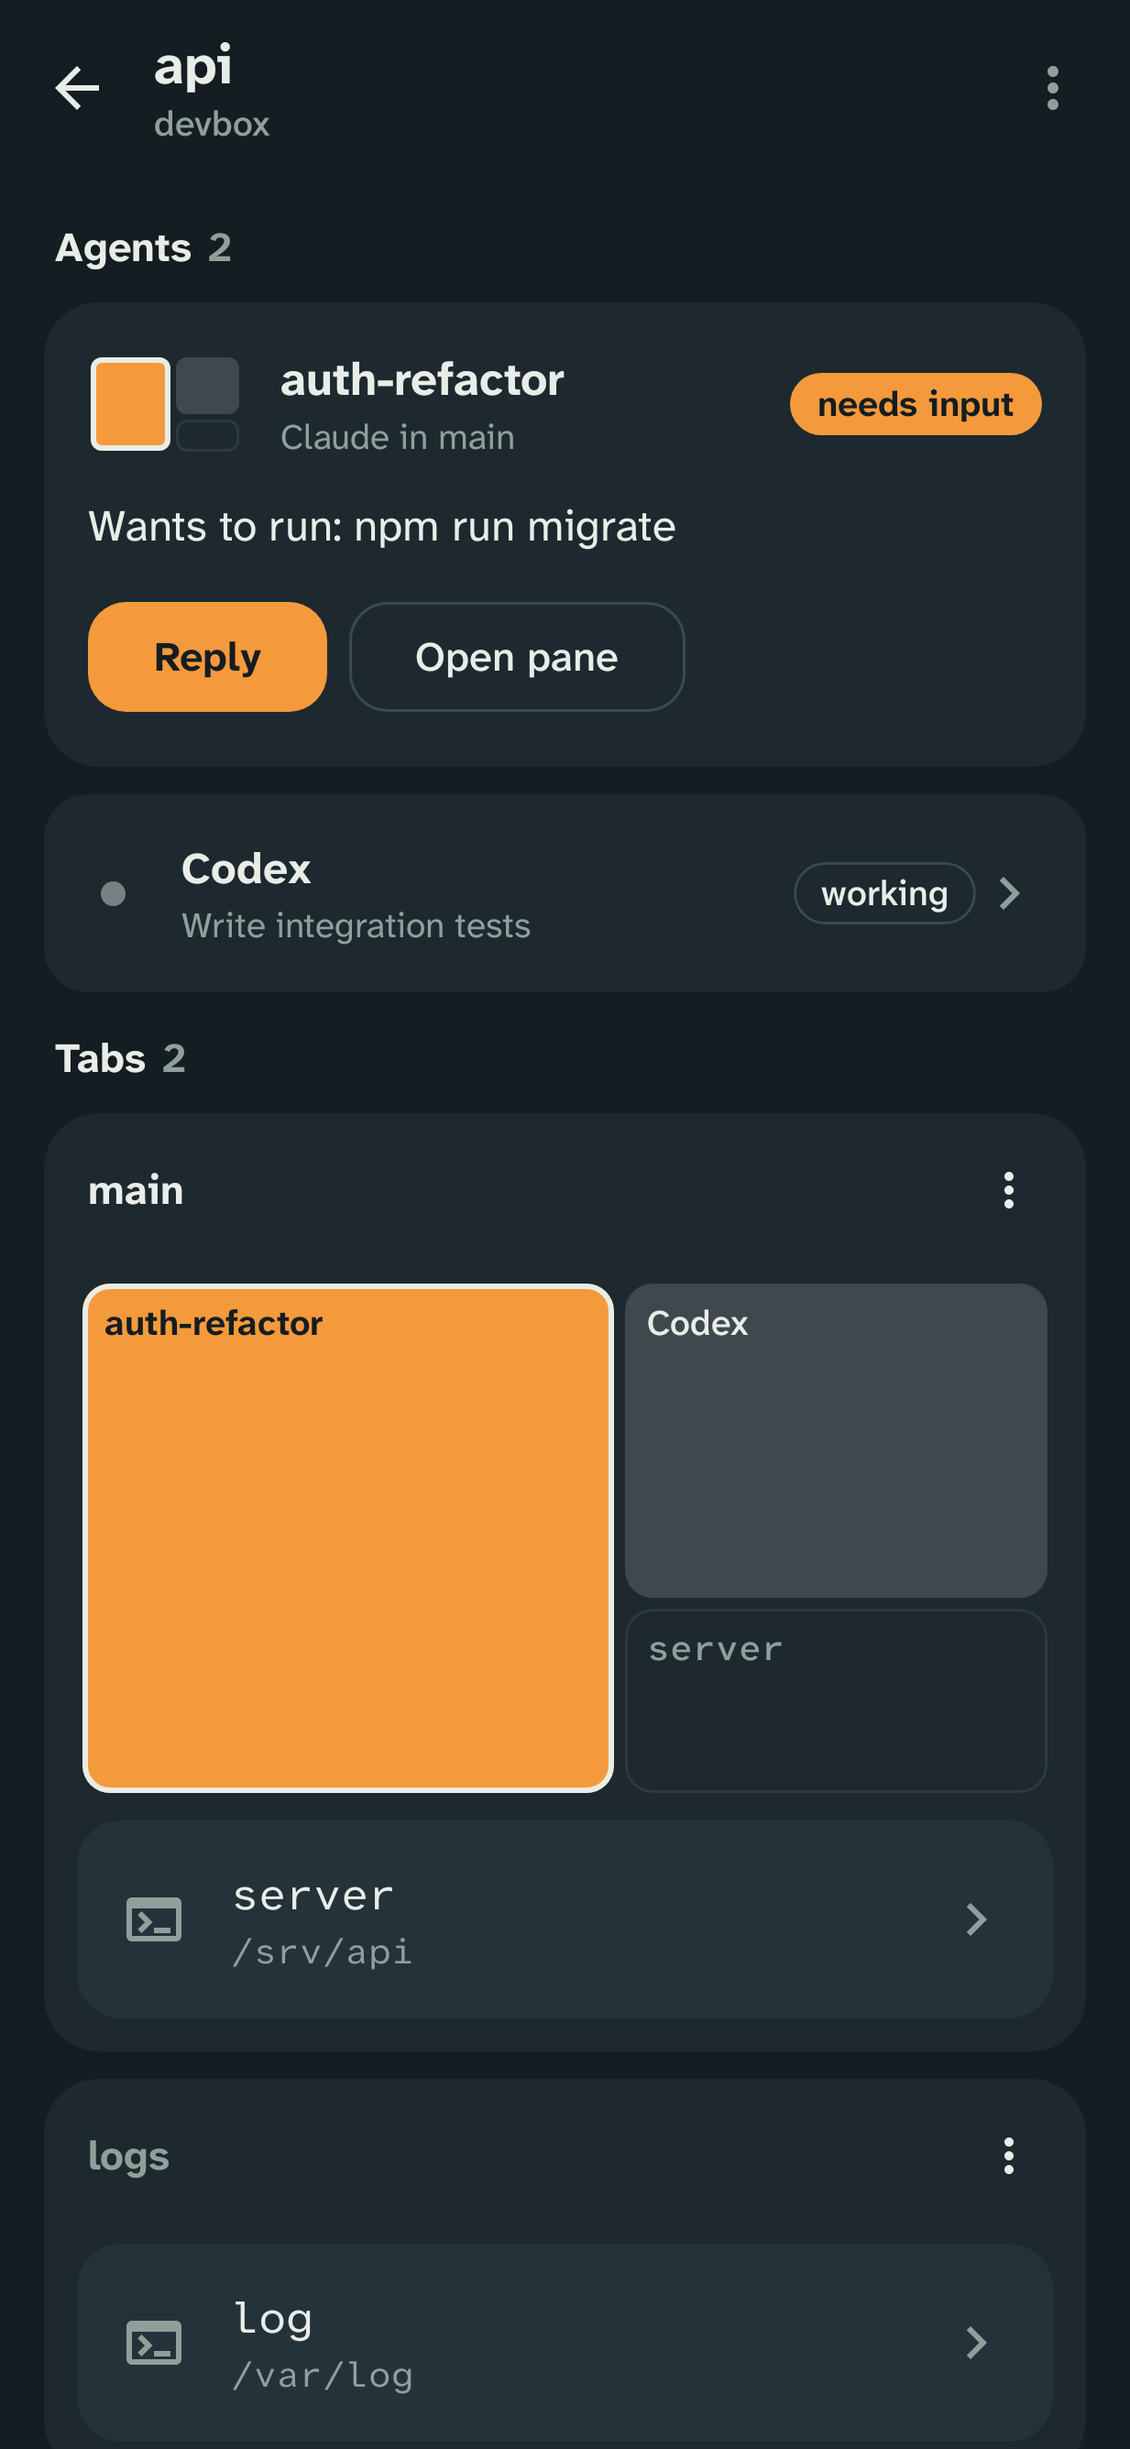
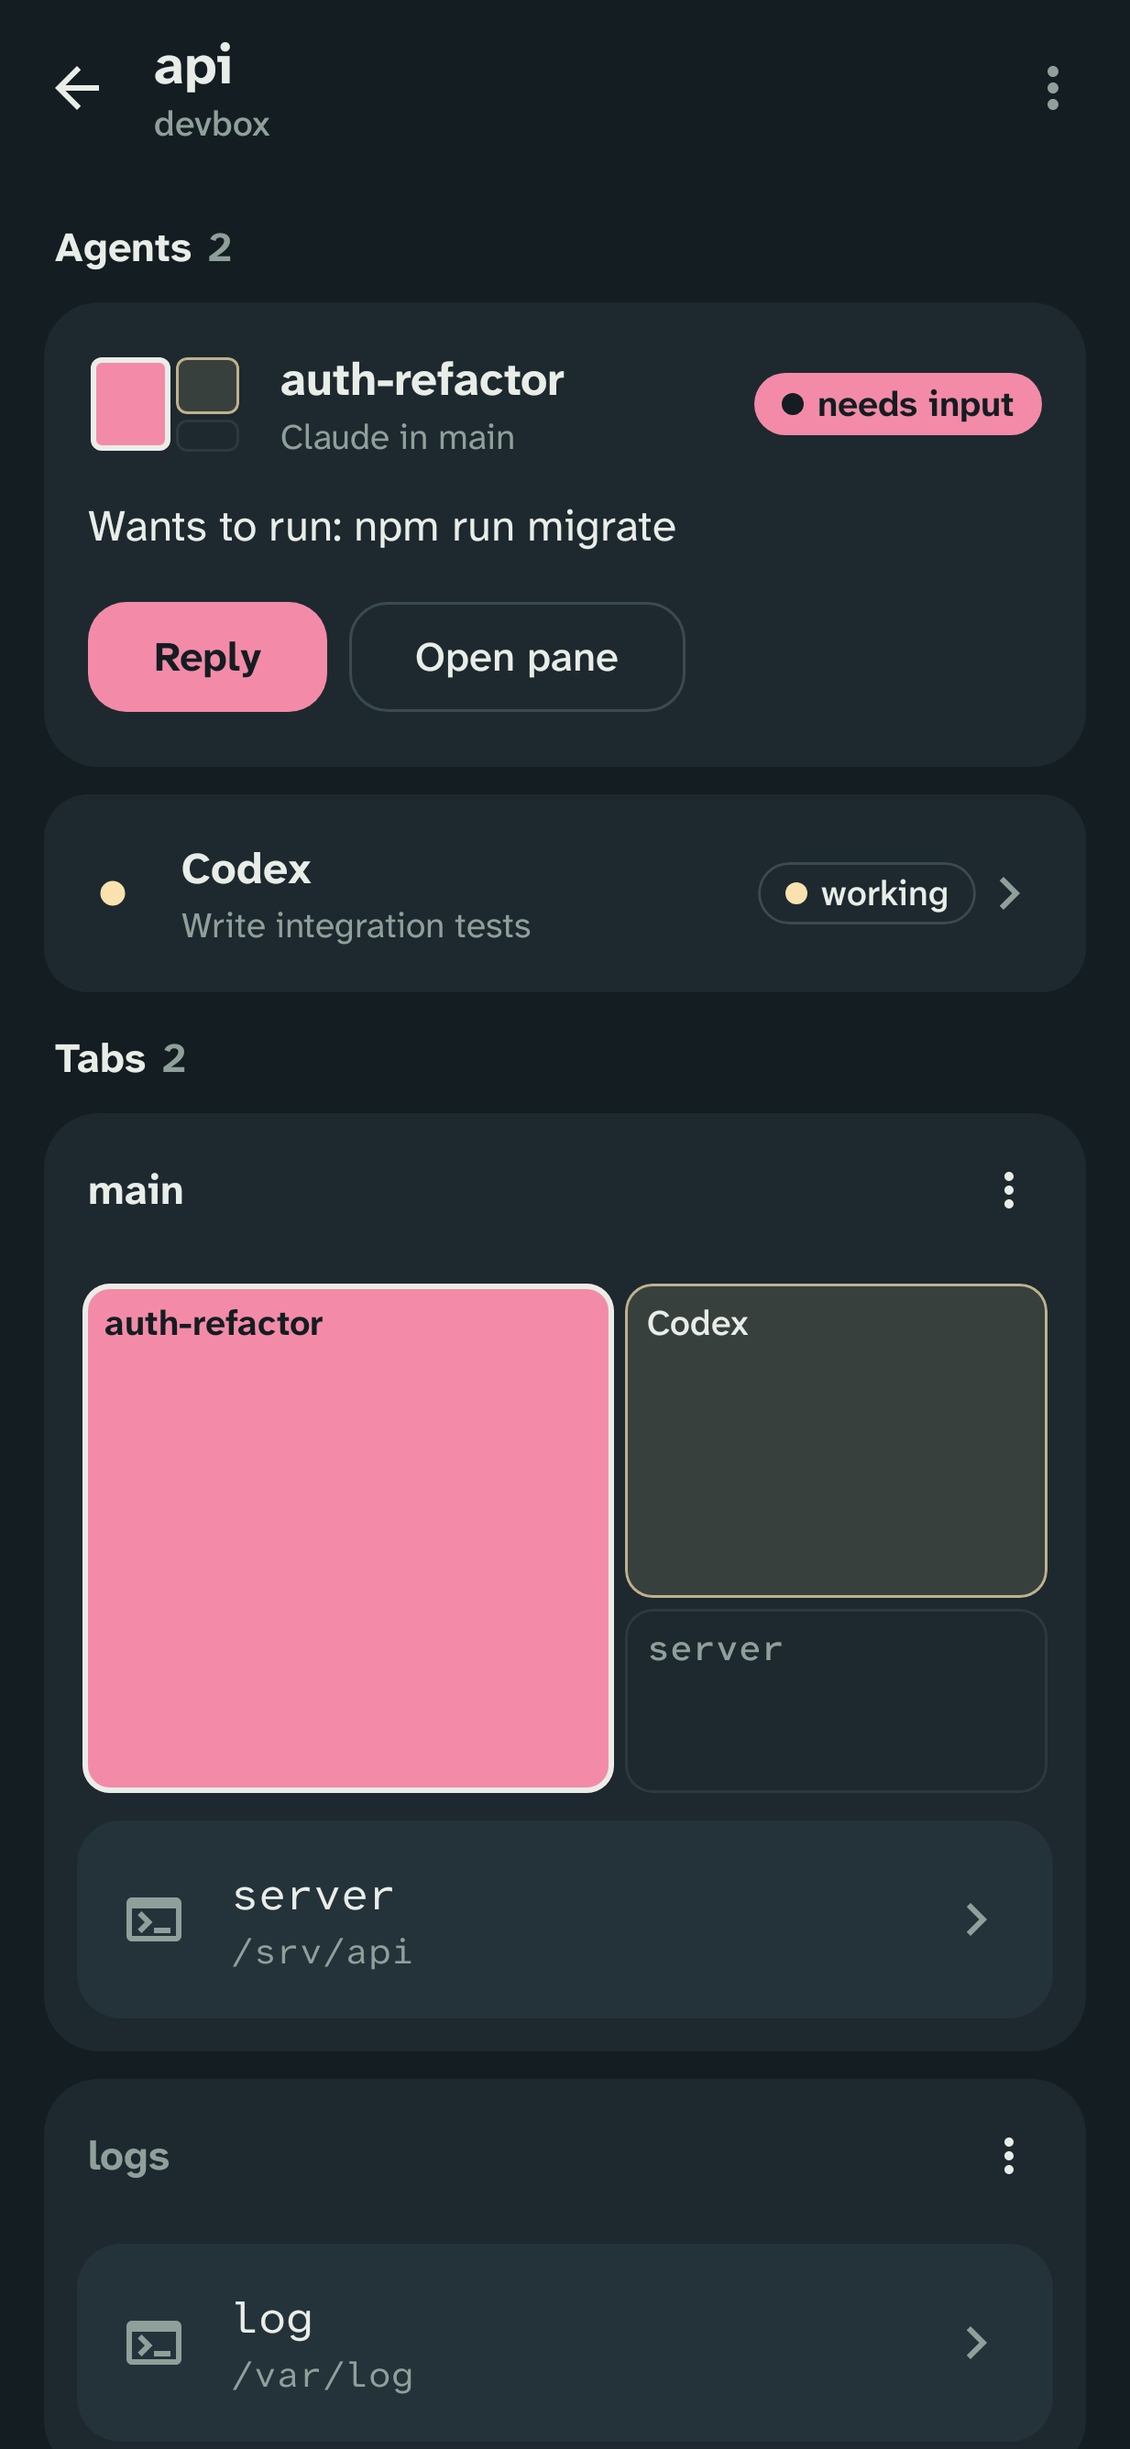
Use herdr's state colors and status marks
Agent states take herdr's colors from its default Catppuccin themes
(blocked red, working yellow, done teal, idle green, unknown overlay0)
and its static marks: dots by default, or distinct symbols (× ◐ ✓ ○ ·)
behind a setting mirroring herdr's ui.status_indicators. Space cards
show their state mark like herdr's space rows.

diff --git a/app/src/main/java/dev/herdroid/ui/components/Status.kt b/app/src/main/java/dev/herdroid/ui/components/Status.kt
@@ -1,28 +1,27 @@
 package dev.herdroid.ui.components
 
-import androidx.compose.animation.core.LinearEasing
-import androidx.compose.animation.core.RepeatMode
-import androidx.compose.animation.core.animateFloat
-import androidx.compose.animation.core.infiniteRepeatable
-import androidx.compose.animation.core.rememberInfiniteTransition
-import androidx.compose.animation.core.tween
+import androidx.compose.foundation.Canvas
 import androidx.compose.foundation.background
 import androidx.compose.foundation.border
-import androidx.compose.foundation.layout.Box
+import androidx.compose.foundation.layout.Arrangement
 import androidx.compose.foundation.layout.Row
 import androidx.compose.foundation.layout.padding
 import androidx.compose.foundation.layout.size
-import androidx.compose.foundation.shape.CircleShape
 import androidx.compose.foundation.shape.RoundedCornerShape
 import androidx.compose.material3.MaterialTheme
 import androidx.compose.material3.Text
 import androidx.compose.runtime.Composable
-import androidx.compose.runtime.getValue
 import androidx.compose.ui.Alignment
 import androidx.compose.ui.Modifier
-import androidx.compose.ui.draw.alpha
 import androidx.compose.ui.draw.clip
-import androidx.compose.ui.draw.scale
+import androidx.compose.ui.geometry.Offset
+import androidx.compose.ui.geometry.Size
+import androidx.compose.ui.graphics.Color
+import androidx.compose.ui.graphics.Path
+import androidx.compose.ui.graphics.StrokeCap
+import androidx.compose.ui.graphics.StrokeJoin
+import androidx.compose.ui.graphics.drawscope.DrawScope
+import androidx.compose.ui.graphics.drawscope.Stroke
 import androidx.compose.ui.semantics.contentDescription
 import androidx.compose.ui.semantics.semantics
 import androidx.compose.ui.text.font.FontWeight
@@ -30,47 +29,57 @@ import androidx.compose.ui.unit.Dp
 import androidx.compose.ui.unit.dp
 import dev.herdroid.herdr.AgentStatus
 import dev.herdroid.ui.theme.LocalStatusColors
+import dev.herdroid.ui.theme.LocalStatusIndicators
+import dev.herdroid.ui.theme.StatusIndicators
+import kotlin.math.max
 
-/** A status dot. Working agents breathe, blocked agents pulse a halo to draw the eye. */
+/**
+ * herdr's state mark (`status_icon` in herdr's client), drawn rather than typeset so it stays
+ * crisp at any size. Static, like herdr's: dots are ● for working/blocked/done, ○ idle, · unknown;
+ * symbols are × blocked, ◐ working, ✓ done, ○ idle, · unknown.
+ */
 @Composable
 fun StatusDot(status: AgentStatus, modifier: Modifier = Modifier, size: Dp = 10.dp) {
     val color = LocalStatusColors.current.of(status)
-    val transition = rememberInfiniteTransition(label = "status")
-    val pulse by transition.animateFloat(
-        initialValue = 0f,
-        targetValue = 1f,
-        animationSpec = infiniteRepeatable(tween(1400, easing = LinearEasing), RepeatMode.Restart),
-        label = "pulse",
-    )
-    val breathe by transition.animateFloat(
-        initialValue = 0.45f,
-        targetValue = 1f,
-        animationSpec = infiniteRepeatable(tween(900), RepeatMode.Reverse),
-        label = "breathe",
-    )
-    Box(
+    val style = LocalStatusIndicators.current
+    Canvas(
         modifier
             .size(size * 2)
             .semantics { contentDescription = "Agent ${status.name.lowercase()}" },
-        contentAlignment = Alignment.Center,
-    ) {
-        if (status == AgentStatus.BLOCKED) {
-            Box(
-                Modifier
-                    .size(size)
-                    .scale(1f + pulse * 0.9f)
-                    .alpha(1f - pulse)
-                    .clip(CircleShape)
-                    .background(color)
+    ) { drawStatusMark(status, style, color, size.toPx()) }
+}
+
+/** Draws the mark for [status] centered in this scope, [diameter] across. */
+fun DrawScope.drawStatusMark(status: AgentStatus, style: StatusIndicators, color: Color, diameter: Float) {
+    val r = diameter / 2
+    val stroke = max(diameter * 0.18f, 1.5f)
+    val ring = { drawCircle(color, r - stroke / 2, style = Stroke(stroke)) }
+    when {
+        status == AgentStatus.UNKNOWN -> drawCircle(color, r * 0.38f)
+        status == AgentStatus.IDLE -> ring()
+        style == StatusIndicators.DOTS -> drawCircle(color, r)
+        status == AgentStatus.WORKING -> {
+            ring()
+            drawArc(
+                color, startAngle = 90f, sweepAngle = 180f, useCenter = true,
+                topLeft = Offset(center.x - r, center.y - r), size = Size(diameter, diameter),
             )
         }
-        Box(
-            Modifier
-                .size(size)
-                .alpha(if (status == AgentStatus.WORKING) breathe else 1f)
-                .clip(CircleShape)
-                .background(color)
-        )
+        status == AgentStatus.BLOCKED -> {
+            val d = r * 0.72f
+            val line = stroke * 1.2f
+            drawLine(color, center + Offset(-d, -d), center + Offset(d, d), line, StrokeCap.Round)
+            drawLine(color, center + Offset(-d, d), center + Offset(d, -d), line, StrokeCap.Round)
+        }
+        else -> { // DONE
+            val origin = center - Offset(r, r)
+            val check = Path().apply {
+                moveTo(origin.x + diameter * 0.12f, origin.y + diameter * 0.55f)
+                lineTo(origin.x + diameter * 0.40f, origin.y + diameter * 0.82f)
+                lineTo(origin.x + diameter * 0.90f, origin.y + diameter * 0.22f)
+            }
+            drawPath(check, color, style = Stroke(stroke * 1.2f, cap = StrokeCap.Round, join = StrokeJoin.Round))
+        }
     }
 }
 
@@ -92,7 +101,11 @@ fun StatusPill(status: AgentStatus, label: String, modifier: Modifier = Modifier
             )
             .padding(horizontal = 10.dp, vertical = 3.dp),
         verticalAlignment = Alignment.CenterVertically,
+        horizontalArrangement = Arrangement.spacedBy(5.dp),
     ) {
+        val markColor = if (solid) colors.onSolid else colors.of(status)
+        val style = LocalStatusIndicators.current
+        Canvas(Modifier.size(8.dp)) { drawStatusMark(status, style, markColor, size.minDimension) }
         Text(
             label,
             style = MaterialTheme.typography.labelMedium,

diff --git a/app/src/main/java/dev/herdroid/ui/SettingsScreen.kt b/app/src/main/java/dev/herdroid/ui/SettingsScreen.kt
@@ -3,6 +3,10 @@ package dev.herdroid.ui
 import android.content.Intent
 import android.provider.Settings
 import androidx.compose.foundation.clickable
+import androidx.compose.foundation.horizontalScroll
+import androidx.compose.foundation.layout.Row
+import androidx.compose.foundation.layout.Spacer
+import androidx.compose.foundation.layout.width
 import androidx.compose.foundation.layout.Column
 import androidx.compose.foundation.layout.padding
 import androidx.compose.foundation.rememberScrollState
@@ -20,14 +24,20 @@ import androidx.compose.material3.Switch
 import androidx.compose.material3.Text
 import androidx.compose.material3.TopAppBar
 import androidx.compose.runtime.Composable
+import androidx.compose.runtime.CompositionLocalProvider
 import androidx.compose.runtime.collectAsState
 import androidx.compose.runtime.getValue
+import androidx.compose.ui.Alignment
 import androidx.compose.ui.Modifier
 import androidx.compose.ui.platform.LocalContext
 import androidx.compose.ui.unit.dp
 import dev.herdroid.BuildConfig
 import dev.herdroid.app
+import dev.herdroid.herdr.AgentStatus
 import dev.herdroid.terminal.TerminalView
+import dev.herdroid.ui.components.StatusDot
+import dev.herdroid.ui.theme.LocalStatusIndicators
+import dev.herdroid.ui.theme.StatusIndicators
 import dev.herdroid.ui.theme.Mono
 
 @OptIn(ExperimentalMaterial3Api::class)
@@ -38,6 +48,7 @@ fun SettingsScreen(onBack: () -> Unit) {
     val fontSize by prefs.fontSize.collectAsState()
     val keepScreenOn by prefs.keepScreenOn.collectAsState()
     val haptics by prefs.haptics.collectAsState()
+    val statusSymbols by prefs.statusSymbols.collectAsState()
 
     Scaffold(
         topBar = {
@@ -70,6 +81,26 @@ fun SettingsScreen(onBack: () -> Unit) {
                 headlineContent = { Text("Keep screen on in terminal") },
                 supportingContent = { Text("Handy while watching an agent work") },
                 trailingContent = { Switch(keepScreenOn, onCheckedChange = prefs::setKeepScreenOn) },
+            )
+            ListItem(
+                headlineContent = { Text("Distinct status symbols") },
+                supportingContent = {
+                    Column {
+                        Text("Like herdr's status_indicators = \"symbols\": tell states apart by shape, not only color")
+                        CompositionLocalProvider(
+                            LocalStatusIndicators provides if (statusSymbols) StatusIndicators.SYMBOLS else StatusIndicators.DOTS
+                        ) {
+                            Row(Modifier.horizontalScroll(rememberScrollState()), verticalAlignment = Alignment.CenterVertically) {
+                                AgentStatus.entries.forEach { status ->
+                                    StatusDot(status, size = 9.dp)
+                                    Text(status.name.lowercase(), style = MaterialTheme.typography.labelSmall)
+                                    Spacer(Modifier.width(6.dp))
+                                }
+                            }
+                        }
+                    }
+                },
+                trailingContent = { Switch(statusSymbols, onCheckedChange = prefs::setStatusSymbols) },
             )
             ListItem(
                 headlineContent = { Text("Key haptics") },

diff --git a/app/src/main/java/dev/herdroid/ui/theme/Theme.kt b/app/src/main/java/dev/herdroid/ui/theme/Theme.kt
@@ -31,8 +31,8 @@ private val CorralHigh = Color(0xFF24323A)
 private val Fence = Color(0xFF2C3A40) // lines
 private val Wool = Color(0xFFE9EDE8) // text
 private val Mist = Color(0xFF8FA09A) // secondary text
-private val Lantern = Color(0xFFF59A3C) // blocked
-private val Sky = Color(0xFF67B0F0) // done
+private val Lantern = Color(0xFFF59A3C) // warm accent
+private val Sky = Color(0xFF67B0F0) // cool accent
 
 // Light
 private val Meadow = Color(0xFFE9EEEA)
@@ -129,25 +129,34 @@ data class StatusColors(
     fun isSolid(status: AgentStatus) = status == AgentStatus.BLOCKED || status == AgentStatus.DONE
 }
 
-private val DarkStatus = StatusColors(
-    blocked = Lantern,
-    done = Sky,
-    working = Wool,
-    idle = Mist,
-    unknown = Fence,
+/*
+ * herdr's own state colors (`status_color` in herdr's client): working → yellow, blocked → red,
+ * done → teal, idle → green, unknown → overlay0, from its default Catppuccin themes.
+ */
+private val DarkStatus = StatusColors( // Catppuccin Mocha
+    blocked = Color(0xFFF38BA8),
+    done = Color(0xFF94E2D5),
+    working = Color(0xFFF9E2AF),
+    idle = Color(0xFFA6E3A1),
+    unknown = Color(0xFF6C7086),
     onSolid = PastureNight,
 )
 
-private val LightStatus = StatusColors(
-    blocked = LanternDay,
-    done = SkyDay,
-    working = Ink,
-    idle = Moss,
-    unknown = Hedge,
+private val LightStatus = StatusColors( // Catppuccin Latte
+    blocked = Color(0xFFD20F39),
+    done = Color(0xFF179299),
+    working = Color(0xFFDF8E1D),
+    idle = Color(0xFF40A02B),
+    unknown = Color(0xFF9CA0B0),
     onSolid = Color.White,
 )
 
 val LocalStatusColors = staticCompositionLocalOf { DarkStatus }
+
+/** herdr's `ui.status_indicators`: color dots (● ○ ·) or distinct symbols (× ◐ ✓ ○ ·). */
+enum class StatusIndicators { DOTS, SYMBOLS }
+
+val LocalStatusIndicators = staticCompositionLocalOf { StatusIndicators.DOTS }
 
 @OptIn(ExperimentalTextApi::class)
 private fun variable(res: Int, weight: Int) =

diff --git a/app/src/main/java/dev/herdroid/ui/session/SessionScreen.kt b/app/src/main/java/dev/herdroid/ui/session/SessionScreen.kt
@@ -11,6 +11,7 @@ import androidx.compose.foundation.layout.Spacer
 import androidx.compose.foundation.layout.fillMaxSize
 import androidx.compose.foundation.layout.fillMaxWidth
 import androidx.compose.foundation.layout.height
+import androidx.compose.foundation.layout.offset
 import androidx.compose.foundation.layout.padding
 import androidx.compose.foundation.lazy.LazyColumn
 import androidx.compose.foundation.lazy.items
@@ -65,6 +66,7 @@ import dev.herdroid.herdr.WorkspaceInfo
 import dev.herdroid.ui.components.ConnectionBanner
 import dev.herdroid.ui.components.ConnectionPrompts
 import dev.herdroid.ui.components.EmptyState
+import dev.herdroid.ui.components.StatusDot
 import dev.herdroid.ui.theme.LocalStatusColors
 import kotlinx.coroutines.launch
 
@@ -279,12 +281,16 @@ private fun SpaceCard(
             ) {
                 snapshot.activeTabId(workspace)?.let { TabMiniature(snapshot, it, MiniatureRow) }
                 Column(Modifier.weight(1f)) {
-                    Text(
-                        workspace.label.ifBlank { "Space ${workspace.number}" },
-                        style = MaterialTheme.typography.titleMedium,
-                        maxLines = 1,
-                        overflow = TextOverflow.Ellipsis,
-                    )
+                    // herdr's space row: its state mark, then the name.
+                    Row(verticalAlignment = Alignment.CenterVertically) {
+                        StatusDot(workspace.agentStatus, Modifier.offset(x = (-4).dp), size = 8.dp)
+                        Text(
+                            workspace.label.ifBlank { "Space ${workspace.number}" },
+                            style = MaterialTheme.typography.titleMedium,
+                            maxLines = 1,
+                            overflow = TextOverflow.Ellipsis,
+                        )
+                    }
                     Text(
                         line,
                         style = MaterialTheme.typography.bodySmall,

diff --git a/app/src/main/java/dev/herdroid/MainActivity.kt b/app/src/main/java/dev/herdroid/MainActivity.kt
@@ -8,6 +8,11 @@ import androidx.activity.enableEdgeToEdge
 import kotlinx.coroutines.flow.MutableStateFlow
 import dev.herdroid.ui.HerdroidRoot
 import dev.herdroid.ui.theme.HerdroidTheme
+import dev.herdroid.ui.theme.LocalStatusIndicators
+import dev.herdroid.ui.theme.StatusIndicators
+import androidx.compose.runtime.CompositionLocalProvider
+import androidx.compose.runtime.collectAsState
+import androidx.compose.runtime.getValue
 
 /** Deep link payload from a notification tap. */
 data class OpenRequest(
@@ -25,8 +30,13 @@ class MainActivity : ComponentActivity() {
         super.onCreate(savedInstanceState)
         handleIntent(intent)
         setContent {
-            HerdroidTheme {
-                HerdroidRoot(openRequests = openRequests)
+            val symbols by app.preferences.statusSymbols.collectAsState()
+            CompositionLocalProvider(
+                LocalStatusIndicators provides if (symbols) StatusIndicators.SYMBOLS else StatusIndicators.DOTS
+            ) {
+                HerdroidTheme {
+                    HerdroidRoot(openRequests = openRequests)
+                }
             }
         }
     }

diff --git a/app/src/main/java/dev/herdroid/data/UiPreferences.kt b/app/src/main/java/dev/herdroid/data/UiPreferences.kt
@@ -16,6 +16,10 @@ class UiPreferences(private val prefs: SharedPreferences) {
     private val _haptics = MutableStateFlow(prefs.getBoolean(KEY_HAPTICS, true))
     val haptics: StateFlow<Boolean> = _haptics.asStateFlow()
 
+    /** Mirrors herdr's `ui.status_indicators = "symbols"`: tell states apart by shape too. */
+    private val _statusSymbols = MutableStateFlow(prefs.getBoolean(KEY_STATUS_SYMBOLS, false))
+    val statusSymbols: StateFlow<Boolean> = _statusSymbols.asStateFlow()
+
     fun setFontSize(sp: Float) {
         _fontSize.value = sp
         prefs.edit().putFloat(KEY_FONT, sp).apply()
@@ -31,9 +35,15 @@ class UiPreferences(private val prefs: SharedPreferences) {
         prefs.edit().putBoolean(KEY_HAPTICS, on).apply()
     }
 
+    fun setStatusSymbols(on: Boolean) {
+        _statusSymbols.value = on
+        prefs.edit().putBoolean(KEY_STATUS_SYMBOLS, on).apply()
+    }
+
     private companion object {
         const val KEY_FONT = "font_size"
         const val KEY_SCREEN_ON = "keep_screen_on"
         const val KEY_HAPTICS = "haptics"
+        const val KEY_STATUS_SYMBOLS = "status_symbols"
     }
 }

diff --git a/app/src/main/java/dev/herdroid/ui/session/LayoutPreview.kt b/app/src/main/java/dev/herdroid/ui/session/LayoutPreview.kt
@@ -88,7 +88,9 @@ fun TabMiniature(
                     .then(
                         when {
                             solid -> Modifier.background(status.of(state!!))
-                            state == AgentStatus.WORKING -> Modifier.background(status.working.copy(alpha = 0.16f))
+                            state == AgentStatus.WORKING -> Modifier
+                                .background(status.working.copy(alpha = 0.12f))
+                                .border(1.dp, status.working.copy(alpha = 0.7f), shape)
                             else -> Modifier.border(1.dp, scheme.outlineVariant, shape)
                         }
                     )
